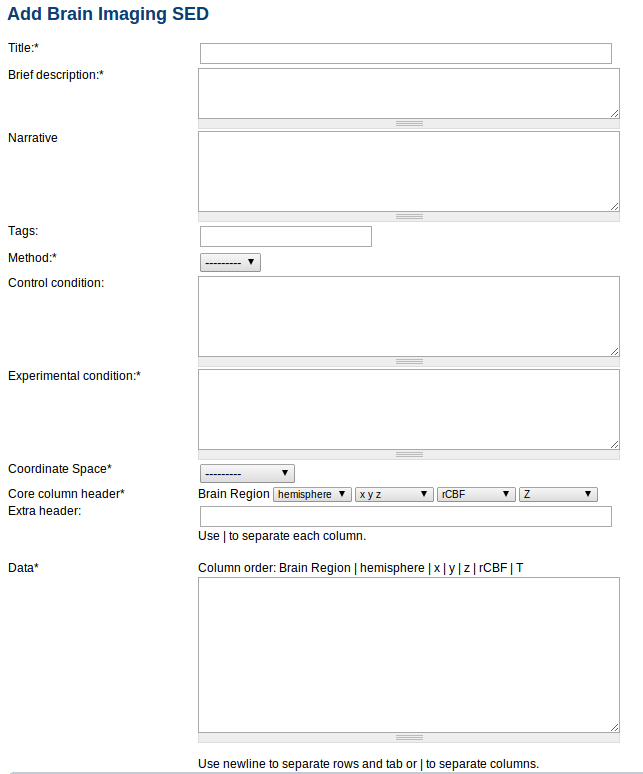
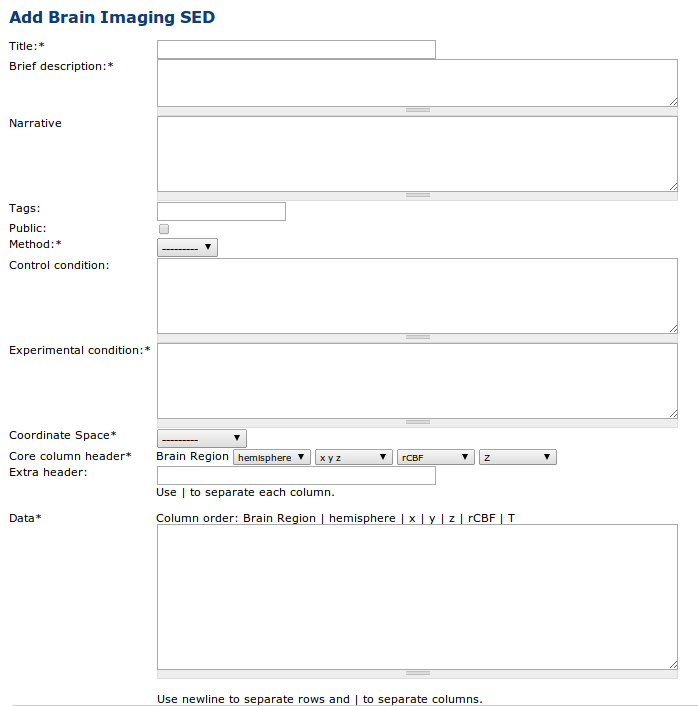
only allow | and not tab to separate columns in data

diff --git a/bodb/templates/bodb/sed/brain_imaging/brain_imaging_sed_detail.html b/bodb/templates/bodb/sed/brain_imaging/brain_imaging_sed_detail.html
@@ -87,10 +87,7 @@
             for(var i=0; i<rows.length; i++)
             {
                 var row_cols=[];
-                if(rows[i].indexOf('\t')>-1)
-                    row_cols=rows[i].split('\t');
-                else
-                    row_cols=rows[i].split('|');
+                row_cols=rows[i].split('|');
                 if(row_cols.length<num_cols)
                 {
                     errors+=1;
@@ -394,7 +391,7 @@
                 </tr>
                 <tr valign=top>
                     <td>&nbsp;</td>
-                    <td>{{ form.data }}<br>Use newline to separate rows and tab or | to separate columns.</td>
+                    <td>{{ form.data }}<br>Use newline to separate rows and | to separate columns.</td>
                     <td class="myerrors"><span id="data_errors"></span></td>
                 </tr>
                 <tr>

diff --git a/bodb/views/report.py b/bodb/views/report.py
@@ -544,41 +544,17 @@ def sed_report_rtf(context, display_settings, doc=None):
         hemi_span=TabPS.DEFAULT_WIDTH * 2
         hemi_header=Cell(PyRTF.Paragraph(ss.ParagraphStyles.Normal,'Hemisphere'), thin_frame)
 
-        header_str=imagingSED.core_header_1+' | '+imagingSED.core_header_2+' | '+imagingSED.core_header_3 + ' | '+imagingSED.core_header_4+' | '+imagingSED.extra_header
-        header_elems=[x.strip() for x in header_str.split('|')]
+        header_str=imagingSED.core_header_1+' | '+imagingSED.core_header_2+' | '+imagingSED.core_header_3 + ' | '+imagingSED.core_header_4
+        core_header_elems=[x.strip() for x in header_str.split('|')]
+        extra_header_elems=[x.strip() for x in imagingSED.extra_header.split('|')]
+        all_header_elems=[]
+        all_header_elems.extend(core_header_elems)
+        all_header_elems.extend(extra_header_elems)
 
         spans=[region_span, hemi_span]
         headers=[region_header, hemi_header]
-        for elem in header_elems:
-            if elem=='x':
-                x_span=TabPS.DEFAULT_WIDTH
-                x_header=Cell(PyRTF.Paragraph(ss.ParagraphStyles.Normal,'x'), thin_frame)
-                spans.append(x_span)
-                headers.append(x_header)
-            elif elem=='y':
-                y_span=TabPS.DEFAULT_WIDTH
-                y_header=Cell(PyRTF.Paragraph(ss.ParagraphStyles.Normal,'y'), thin_frame)
-                spans.append(y_span)
-                headers.append(y_header)
-            elif elem=='z':
-                z_span=TabPS.DEFAULT_WIDTH
-                z_header=Cell(PyRTF.Paragraph(ss.ParagraphStyles.Normal,'z'), thin_frame)
-                spans.append(z_span)
-                headers.append(z_header)
-            elif elem=='rCBF':
-                rcbf_span=TabPS.DEFAULT_WIDTH
-                rcbf_header=Cell(PyRTF.Paragraph(ss.ParagraphStyles.Normal,'rCBF'), thin_frame)
-                spans.append(rcbf_span)
-                headers.append(rcbf_header)
-            elif elem=='T' or elem=='Z':
-                stat_span=TabPS.DEFAULT_WIDTH*2
-                if elem=='T':
-                    stat_header=Cell(PyRTF.Paragraph(ss.ParagraphStyles.Normal,'T'), thin_frame)
-                elif elem=='Z':
-                    stat_header=Cell(PyRTF.Paragraph(ss.ParagraphStyles.Normal,'Z'), thin_frame)
-                spans.append(stat_span)
-                headers.append(stat_header)
-            elif not elem=='hemisphere' and not elem=='N/A':
+        for elem in all_header_elems:
+            if not elem=='hemisphere' and not elem=='N/A':
                 extra_span=TabPS.DEFAULT_WIDTH
                 extra_header=Cell(PyRTF.Paragraph(ss.ParagraphStyles.Normal,unicode(elem).encode('latin1','ignore')), thin_frame)
                 spans.append(extra_span)
@@ -592,7 +568,7 @@ def sed_report_rtf(context, display_settings, doc=None):
             hemi_cell=Cell(PyRTF.Paragraph(ss.ParagraphStyles.Normal,unicode(coord.hemisphere).encode('latin1','ignore')), thin_frame)
             cells=[region_cell,hemi_cell]
 
-            for col in header_elems:
+            for col in core_header_elems:
                 if col=='x':
                     x_cell=Cell(PyRTF.Paragraph(ss.ParagraphStyles.Normal,unicode(coord.coord.x).encode('latin1','ignore')), thin_frame)
                     cells.append(x_cell)
@@ -717,25 +693,15 @@ def sed_report_pdf(context, display_settings, elements=None):
         header=[Paragraph('Brain Region',styles['Heading4']),
                 Paragraph('Hemisphere',styles['Heading4'])]
         col_width=[1.5*inch, inch]
-        header_str=imagingSED.core_header_1+' | '+imagingSED.core_header_2+' | '+imagingSED.core_header_3 + ' | '+imagingSED.core_header_4+' | '+imagingSED.extra_header
-        header_elems=[x.strip() for x in header_str.split('|')]
-        for elem in header_elems:
-            if elem=='x':
-                col_width.append(inch)
-                header.append(Paragraph(elem,styles['Heading4']))
-            elif elem=='y':
-                col_width.append(inch)
-                header.append(Paragraph(elem,styles['Heading4']))
-            elif elem=='z':
-                col_width.append(inch)
-                header.append(Paragraph(elem,styles['Heading4']))
-            elif elem=='rCBF':
-                col_width.append(inch)
-                header.append(Paragraph(elem,styles['Heading4']))
-            elif elem=='T' or elem=='Z':
-                col_width.append(inch)
-                header.append(Paragraph(elem,styles['Heading4']))
-            elif not elem=='hemisphere' and not elem=='N/A':
+        header_str=imagingSED.core_header_1+' | '+imagingSED.core_header_2+' | '+imagingSED.core_header_3 + ' | '+imagingSED.core_header_4
+        core_header_elems=[x.strip() for x in header_str.split('|')]
+        extra_header_elems=[x.strip() for x in imagingSED.extra_header.split('|')]
+        all_header_elems=[]
+        all_header_elems.extend(core_header_elems)
+        all_header_elems.extend(extra_header_elems)
+
+        for elem in all_header_elems:
+            if not elem=='hemisphere' and not elem=='N/A':
                 col_width.append(inch)
                 header.append(Paragraph(elem,styles['Heading4']))
         coordData.append(header)
@@ -746,7 +712,7 @@ def sed_report_pdf(context, display_settings, elements=None):
             cols.append(Paragraph(unicode(coord.named_brain_region).encode('latin1','ignore'),styles['BodyText']))
             cols.append(Paragraph(unicode(coord.hemisphere).encode('latin1','ignore'),styles['BodyText']))
 
-            for col in header_elems:
+            for col in core_header_elems:
                 if col=='x':
                     cols.append(Paragraph(unicode(coord.coord.x).encode('latin1','ignore'),styles['BodyText']))
                 elif col=='y':

diff --git a/bodb/views/sed.py b/bodb/views/sed.py
@@ -396,10 +396,7 @@ class EditBrainImagingSEDMixin():
             for row in data:
                 if len(row)>0:
                     # split row into columns
-                    if row.find('|')>-1:
-                        row_elems=[x.strip() for x in row.split('|')]
-                    else:
-                        row_elems=row.split('\t')
+                    row_elems=[x.strip() for x in row.split('|')]
 
                     # create SED Coordinate from row data
                     coord=SEDCoord()
@@ -455,6 +452,8 @@ class EditBrainImagingSEDMixin():
                     coord.extra_data=''
                     j=0
                     while j+i<len(row_elems):
+                        if j>0:
+                            coord.extra_data+='|'
                         coord.extra_data+=row_elems[j+i]
                         j+=1
 
@@ -521,7 +520,7 @@ class UpdateBrainImagingSEDView(EditBrainImagingSEDMixin, UpdateView):
         # construct column list - core headers
         header_str=self.object.core_header_1+' | '+self.object.core_header_2+' | '+self.object.core_header_3 + ' | '+\
                    self.object.core_header_4
-        header_elems=header_str.split(' | ')
+        header_elems=[x.strip() for x in header_str.split('|')]
 
         imagingDataStr=''
         # process coordinates
@@ -533,29 +532,26 @@ class UpdateBrainImagingSEDView(EditBrainImagingSEDMixin, UpdateView):
             for col in header_elems:
                 if col=='hemisphere':
                     data_row.append(coord.hemisphere)
-                    data_row_str+='\t'+coord.hemisphere
+                    data_row_str+=' | '+coord.hemisphere
                 elif col=='x':
                     data_row.append(coord.coord.x)
-                    data_row_str+='\t'+str(coord.coord.x)
+                    data_row_str+=' | '+str(coord.coord.x)
                 elif col=='y':
                     data_row.append(coord.coord.y)
-                    data_row_str+='\t'+str(coord.coord.y)
+                    data_row_str+=' | '+str(coord.coord.y)
                 elif col=='z':
                     data_row.append(coord.coord.z)
-                    data_row_str+='\t'+str(coord.coord.z)
+                    data_row_str+=' | '+str(coord.coord.z)
                 elif col=='rCBF':
                     data_row.append(coord.rcbf)
-                    data_row_str+='\t'+str(coord.rcbf)
+                    data_row_str+=' | '+str(coord.rcbf)
                 elif col=='T' or col=='Z':
                     data_row.append(coord.statistic_value)
-                    data_row_str+='\t'+str(coord.statistic_value)
-            if coord.extra_data.find(' | ')>-1:
-                extra_data=coord.extra_data.split(' | ')
-            else:
-                extra_data=coord.extra_data.split('|')
+                    data_row_str+=' | '+str(coord.statistic_value)
+            extra_data=[x.strip() for x in coord.extra_data.split('|')]
             for elem in extra_data:
                 data_row.append(elem)
-                data_row_str+='\t'+elem
+                data_row_str+=' | '+elem
 
             imagingDataStr+=data_row_str+'\n'
         return {'data': imagingDataStr}

diff --git a/bodb/docs/insert_data.rst b/bodb/docs/insert_data.rst
@@ -471,11 +471,11 @@ The mandatory "core" columns for brain-imaging data consists of "Brain Region", 
 
 *Extra Header*
 
-The user can specify optional "extra" columns by inserting the column names, separating each one with a Tab character, and ordering by the column sequence in the present table.
+The user can specify optional "extra" columns by inserting the column names, separating each one with a | character, and ordering by the column sequence in the present table.
 
 *Data*
 
-The user has to paste the data into the text area.
+The user has to paste the data into the text area. Each row should contain the same number of columns specified by the Core Column Header and Extra Header fields. Columns should be separated by a | character.
 
 Summary of Event Related Potential Data
 ^^^^^^^^^^^^^^^^^^^^^^^^^^^^^^^^^^^^^^^
